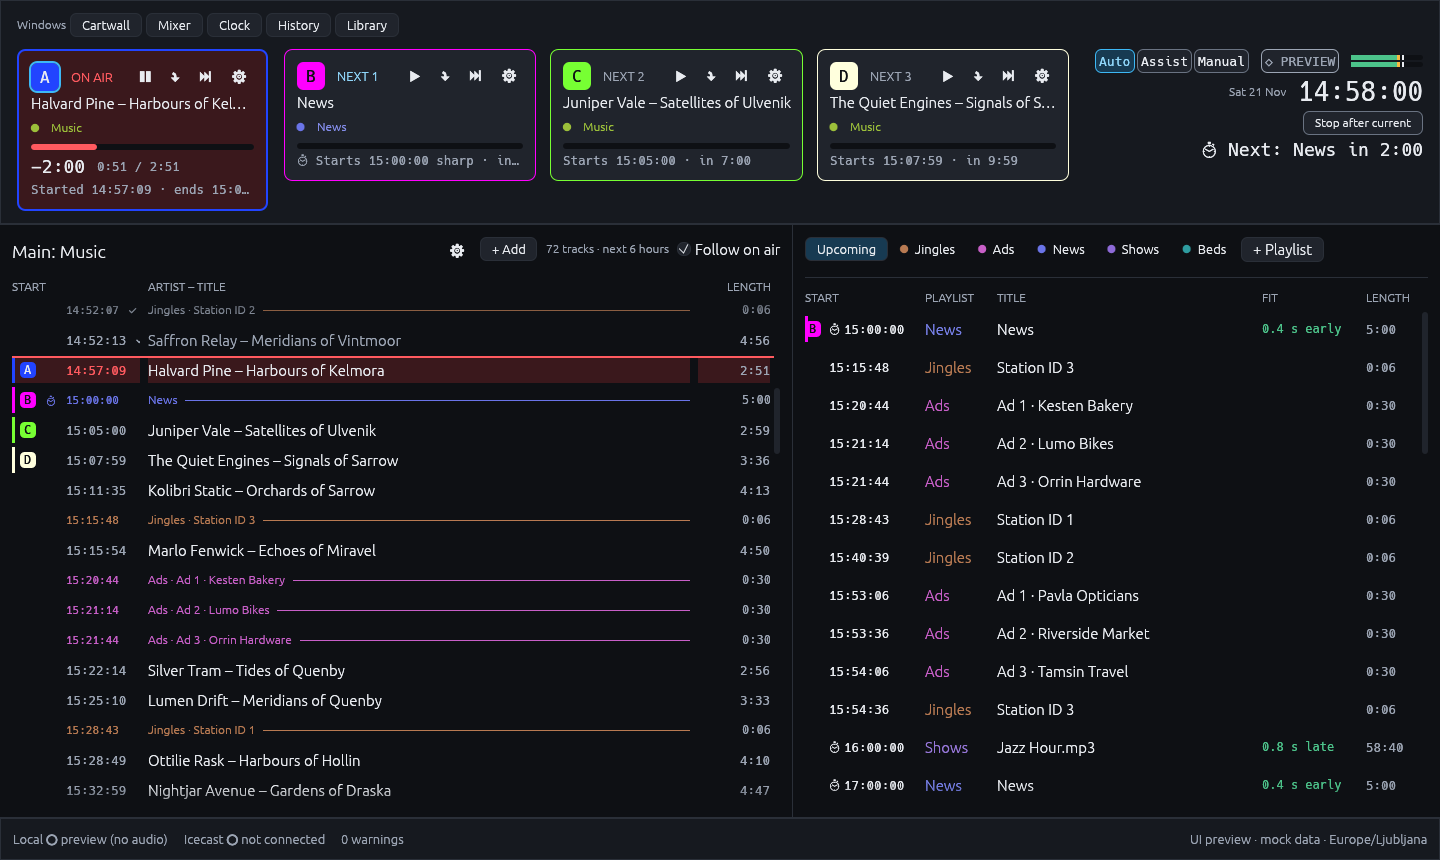
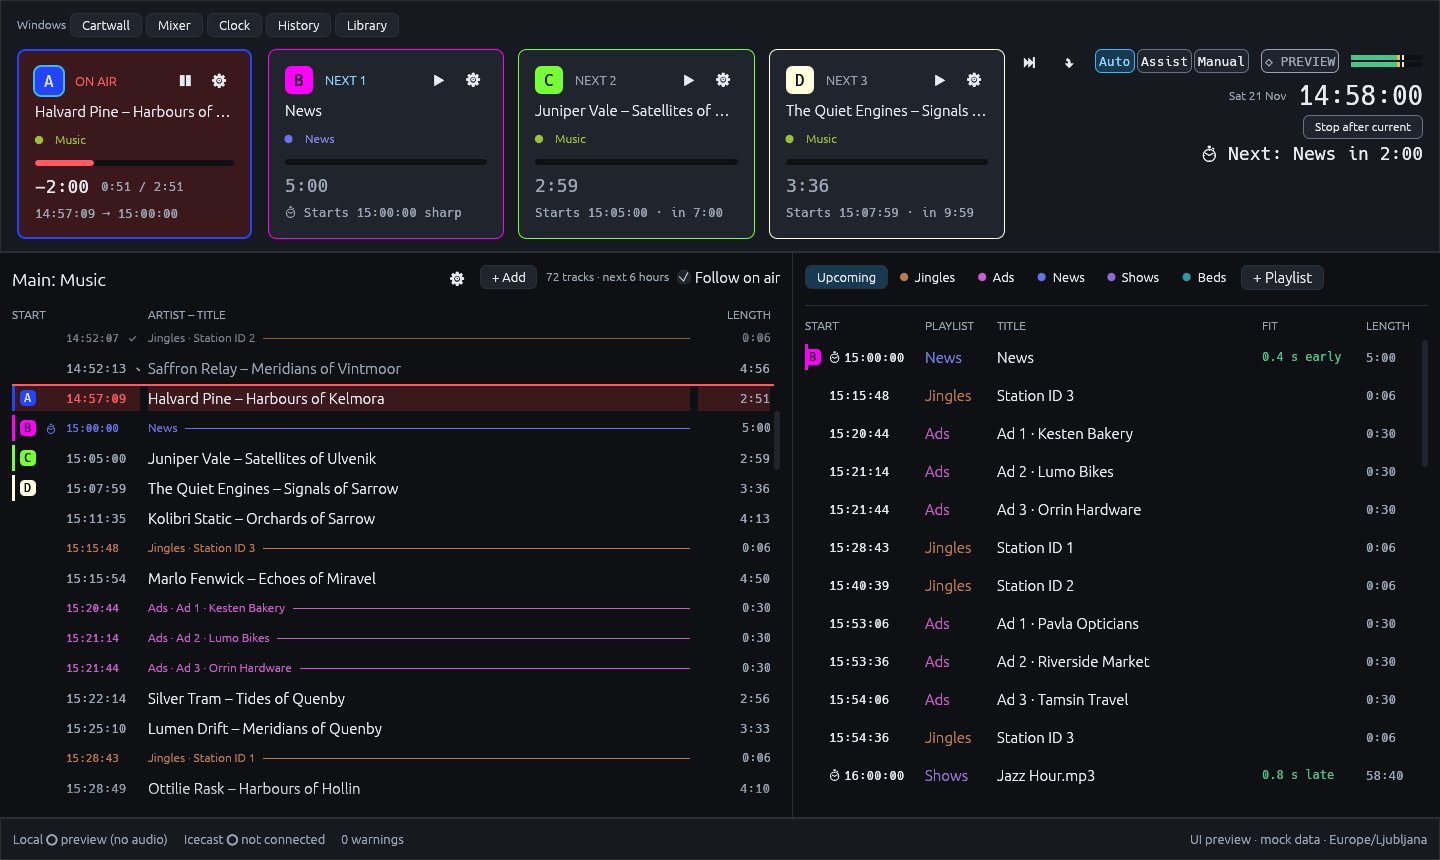
fix(ui): deck cards share one layout and height, with room to breathe

diff --git a/crates/ui-egui/src/decks.rs b/crates/ui-egui/src/decks.rs
@@ -338,17 +338,27 @@ fn deck_card(
         _ => size::HAIRLINE,
     };
     let frame = theme::card_frame(t)
+        .inner_margin(pad::DECK)
         .fill(if live { t.on_air_bg } else { t.field })
         .stroke(Stroke::new(edge_w, edge));
     let inner = width - frame.total_margin().sum().x - edge_w * 2.0;
+    let frame_h = frame.total_margin().sum().y;
     // The badge and the title take the right-click. A card-wide sensor would take the button clicks.
-    frame
-        .show(ui, |ui| {
-            ui.set_width(inner);
-            ui.vertical(|ui| deck_body(ui, i, decks, state, actions, t))
-                .inner
-        })
-        .inner
+    let shown = frame.show(ui, |ui| {
+        ui.set_width(inner);
+        // Every card fills the strip, so the four are as tall as each other.
+        ui.set_min_height(size::DECK_STRIP_H - frame_h);
+        ui.vertical(|ui| deck_body(ui, i, decks, state, actions, t))
+            .inner
+    });
+    ui.ctx()
+        .data_mut(|d| d.insert_temp(card_rect_id(i), shown.response.rect));
+    shown.inner
+}
+
+/// Where the card of deck `i` was drawn, for tests.
+pub(crate) fn card_rect_id(i: usize) -> egui::Id {
+    egui::Id::new(("deck_card_rect", i))
 }
 
 fn deck_body(
@@ -359,7 +369,7 @@ fn deck_body(
     actions: &mut Vec<Action>,
     t: &Tokens,
 ) -> egui::Response {
-    ui.spacing_mut().item_spacing.y = space::XS;
+    ui.spacing_mut().item_spacing.y = space::S;
     let deck = &decks[i];
     let now = ui.input(|i| i.time);
     let head = ui.horizontal(|ui| {
@@ -495,49 +505,72 @@ fn deck_body(
     };
     let label = egui::Label::new(RichText::new(title).font(theme::text(theme::BODY)));
     let title = ui.add(label.truncate().sense(Sense::click()));
-    // The playlist of the item, as a chip: its colour and its name.
-    if deck.state == DeckState::Empty {
-        let empty = RichText::new("Empty: nothing planned").font(theme::text(theme::CAPTION));
-        widgets::truncated_label(ui, empty.color(t.text_muted));
-    } else if !deck.playlist.is_empty() {
-        ui.horizontal(|ui| {
-            let (dot, _) =
-                ui.allocate_exact_size(egui::Vec2::splat(size::DOT_R * 2.0), Sense::hover());
+    // The playlist of the item, as a chip: its colour and its name. An empty deck keeps the row.
+    ui.horizontal(|ui| {
+        let (dot, _) = ui.allocate_exact_size(egui::Vec2::splat(size::DOT_R * 2.0), Sense::hover());
+        let (name, colour) = if deck.state == DeckState::Empty {
+            ("Empty: nothing planned", t.text_muted)
+        } else if deck.playlist.is_empty() {
+            ("No playlist", t.text_muted)
+        } else {
             ui.painter().circle_filled(
                 dot.center(),
                 size::DOT_R,
                 Tokens::playlist(deck.playlist_color),
             );
-            let ink = t.readable(deck.playlist_color, t.field);
-            let name = RichText::new(&deck.playlist).font(theme::text(theme::CAPTION));
-            widgets::truncated_label(ui, name.color(ink));
-        });
-    }
+            (
+                deck.playlist.as_str(),
+                t.readable(deck.playlist_color, t.field),
+            )
+        };
+        let name = RichText::new(name).font(theme::text(theme::CAPTION));
+        widgets::truncated_label(ui, name.color(colour));
+    });
     progress(ui, deck, t);
     let left = deck.len.saturating_sub(deck.elapsed);
-    let muted = |s: String| {
+    let muted = |s: &str| {
         RichText::new(s)
             .font(theme::mono(theme::CODE))
             .color(t.text_muted)
     };
-    match deck.state {
-        DeckState::Playing | DeckState::Fading | DeckState::Paused => {
-            // The time left is the largest number on the card.
-            ui.horizontal(|ui| {
-                let left = RichText::new(format!("−{}", mmss(left)))
-                    .font(theme::mono(theme::SECTION))
-                    .strong();
-                ui.label(left).on_hover_text("Time left on this item");
+    // The time row: the time left on air, the length of a waiting deck, a dash when empty.
+    // The largest number of the row is the same size in every state.
+    ui.horizontal(|ui| {
+        let big = |s: String| RichText::new(s).font(theme::mono(theme::SECTION)).strong();
+        match deck.state {
+            DeckState::Playing | DeckState::Fading | DeckState::Paused => {
+                ui.label(big(format!("−{}", mmss(left))))
+                    .on_hover_text("Time left on this item");
                 let done = format!("{} / {}", mmss(deck.elapsed), mmss(deck.len));
-                widgets::truncated_label(ui, muted(done));
-            });
+                widgets::truncated_label(ui, muted(&done));
+            }
+            DeckState::Ready => {
+                ui.label(big(mmss(deck.len)).color(t.text_muted))
+                    .on_hover_text("Length of this item");
+            }
+            DeckState::Empty => {
+                ui.label(big("–:––".to_owned()).color(t.text_muted));
+            }
         }
-        DeckState::Ready | DeckState::Empty => {}
-    }
+    });
     // When the deck starts, or when it started and ends. The times come from the plan.
-    if let Some(line) = start_line(deck, now_ts(deck, ui)) {
-        widgets::truncated_label(ui, muted(line));
-    }
+    // The line shows the longest form that fits; the title is the only text that truncates.
+    let lines = start_lines(deck, now_ts(deck, ui));
+    let room = ui.available_width();
+    let font = theme::mono(theme::CODE);
+    let fits = |s: &String| {
+        ui.painter()
+            .layout_no_wrap(s.clone(), font.clone(), t.text_muted)
+            .size()
+            .x
+            <= room
+    };
+    let line = lines
+        .iter()
+        .find(|s| fits(s))
+        .or(lines.last())
+        .map_or("Nothing planned", String::as_str);
+    ui.add(egui::Label::new(muted(line)).wrap_mode(egui::TextWrapMode::Extend));
     head.inner.union(title)
 }
 
@@ -957,31 +990,49 @@ fn now_ts(_deck: &DeckView, ui: &egui::Ui) -> Option<jiff::Timestamp> {
 /// The key of the snapshot instant in the egui data, for the countdowns of the decks.
 pub(crate) const NOW_KEY: &str = "decks_now";
 
-/// The line under a deck: when it starts, or when it started and ends.
-fn start_line(deck: &DeckView, now: Option<jiff::Timestamp>) -> Option<String> {
-    let start = deck.start.as_ref()?;
+/// The line under a deck as candidates, the longest first: when it starts, or when it
+/// started and ends. A narrow card takes a shorter one; the less important part goes first.
+fn start_lines(deck: &DeckView, now: Option<jiff::Timestamp>) -> Vec<String> {
+    let Some(start) = deck.start.as_ref() else {
+        return vec!["Nothing planned".to_owned()];
+    };
     match deck.state {
-        DeckState::Empty => None,
-        DeckState::Paused => Some("Paused".to_owned()),
+        DeckState::Empty => vec!["Nothing planned".to_owned()],
+        DeckState::Paused => vec!["Paused".to_owned()],
         DeckState::Playing | DeckState::Fading => {
             let end = jiff::SignedDuration::try_from(deck.len)
                 .ok()
                 .and_then(|d| start.timestamp().checked_add(d).ok())
-                .map(|e| hms(&e.to_zoned(start.time_zone().clone())))
-                .unwrap_or_default();
-            Some(format!("Started {} · ends {end}", hms(start)))
-        }
-        DeckState::Ready if deck.waiting => Some("Waits for Next".to_owned()),
-        DeckState::Ready => {
-            let left = now.map_or(String::new(), |n| {
-                let secs = start.timestamp().duration_since(n).as_secs().max(0) as u64;
-                format!(" · in {}", mmss(std::time::Duration::from_secs(secs)))
-            });
-            if deck.hard {
-                Some(format!("⏱ Starts {} sharp{left}", hms(start)))
-            } else {
-                Some(format!("Starts {}{left}", hms(start)))
+                .map(|e| e.to_zoned(start.time_zone().clone()));
+            let from = hms(start);
+            match end {
+                Some(end) => {
+                    let end_hm = end.strftime("%H:%M").to_string();
+                    vec![
+                        format!("{from} → {}", hms(&end)),
+                        format!("{from} → {end_hm}"),
+                        from,
+                    ]
+                }
+                None => vec![from],
             }
+        }
+        DeckState::Ready if deck.waiting => vec!["Waits for Next".to_owned(), "Waits".to_owned()],
+        DeckState::Ready => {
+            let at = hms(start);
+            let sharp = if deck.hard { "⏱ " } else { "" };
+            let tail = if deck.hard { " sharp" } else { "" };
+            let left = now.map(|n| {
+                let secs = start.timestamp().duration_since(n).as_secs().max(0) as u64;
+                mmss(std::time::Duration::from_secs(secs))
+            });
+            let mut out = Vec::new();
+            if let Some(left) = &left {
+                out.push(format!("{sharp}Starts {at}{tail} · in {left}"));
+            }
+            out.push(format!("{sharp}Starts {at}{tail}"));
+            out.push(format!("{sharp}{at}"));
+            out
         }
     }
 }

diff --git a/crates/ui-egui/tests/it/smoke.rs b/crates/ui-egui/tests/it/smoke.rs
@@ -223,7 +223,7 @@ fn deck_cards_name_their_playlist_and_start_and_rows_show_their_deck() {
     let in_strip = |label: &str| {
         harness
             .query_all_by_label(label)
-            .any(|n| n.rect().bottom() < 200.0)
+            .any(|n| n.rect().bottom() < 250.0)
     };
     assert!(
         in_strip("Music"),
@@ -232,13 +232,13 @@ fn deck_cards_name_their_playlist_and_start_and_rows_show_their_deck() {
     assert!(
         harness
             .query_all_by_label_contains("Starts 15:")
-            .any(|n| n.rect().bottom() < 200.0),
+            .any(|n| n.rect().bottom() < 250.0),
         "a NEXT deck says when it starts"
     );
     assert!(
         harness
             .query_all_by_label("Deck C")
-            .any(|n| n.rect().top() > 200.0),
+            .any(|n| n.rect().top() > 250.0),
         "the row on deck C shows the C badge"
     );
 }
@@ -278,4 +278,20 @@ fn a_library_column_changes_width_after_a_drag() {
 fn header_shows_full_mode_names_at_1440() {
     let harness = harness();
     assert!(harness.query_all_by_label("Assist").next().is_some());
+}
+
+/// One deck on air and three waiting: the four cards are as tall as each other.
+#[test]
+fn deck_cards_have_equal_height_whatever_their_state() {
+    let harness = harness();
+    let rects: Vec<egui::Rect> = (0..4)
+        .map(|i| radio_ui_egui::deck_card_rect(&harness.ctx, i).expect("deck card drawn"))
+        .collect();
+    assert!(shows(&harness, "ON AIR"), "one deck is on air");
+    for r in &rects {
+        assert!(
+            (r.height() - rects[0].height()).abs() < 0.5,
+            "deck cards differ in height: {rects:?}"
+        );
+    }
 }

diff --git a/crates/ui-egui/src/theme.rs b/crates/ui-egui/src/theme.rs
@@ -37,6 +37,8 @@ pub mod pad {
     pub const CHIP: Margin = Margin::symmetric(8, 2);
     pub const ROW: Margin = Margin::symmetric(8, 4);
     pub const CARD: Margin = Margin::same(12);
+    /// A deck card: one step more room than a plain card.
+    pub const DECK: Margin = Margin::same(16);
     pub const PANEL: Margin = Margin::same(12);
     pub const BAR: Margin = Margin::symmetric(12, 8);
     pub const GUTTER: Margin = Margin::symmetric(16, 12);
@@ -178,7 +180,7 @@ pub mod size {
     pub const UPCOMING_TIME: f32 = 112.0;
     pub const UPCOMING_PLAYLIST: f32 = 64.0;
     pub const UPCOMING_LEN: f32 = 52.0;
-    pub const DECK_STRIP_H: f32 = 142.0;
+    pub const DECK_STRIP_H: f32 = 190.0;
     pub const COL_TITLE: f32 = 240.0;
     pub const COL_ARTIST: f32 = 150.0;
     pub const COL_CATEGORY: f32 = 90.0;

diff --git a/crates/ui-egui/src/lib.rs b/crates/ui-egui/src/lib.rs
@@ -48,3 +48,10 @@ pub use app::RadioApp;
 pub use mock::MockSource;
 pub use view::{DeckState, DeckView, FitView, PlaylistTab, Row, StationView, ViewSource};
 pub use windows::ToolWindow;
+
+/// Where the card of deck `i` was drawn in the last frame. For tests.
+#[doc(hidden)]
+#[must_use]
+pub fn deck_card_rect(ctx: &egui::Context, i: usize) -> Option<egui::Rect> {
+    ctx.data(|d| d.get_temp::<egui::Rect>(decks::card_rect_id(i)))
+}
